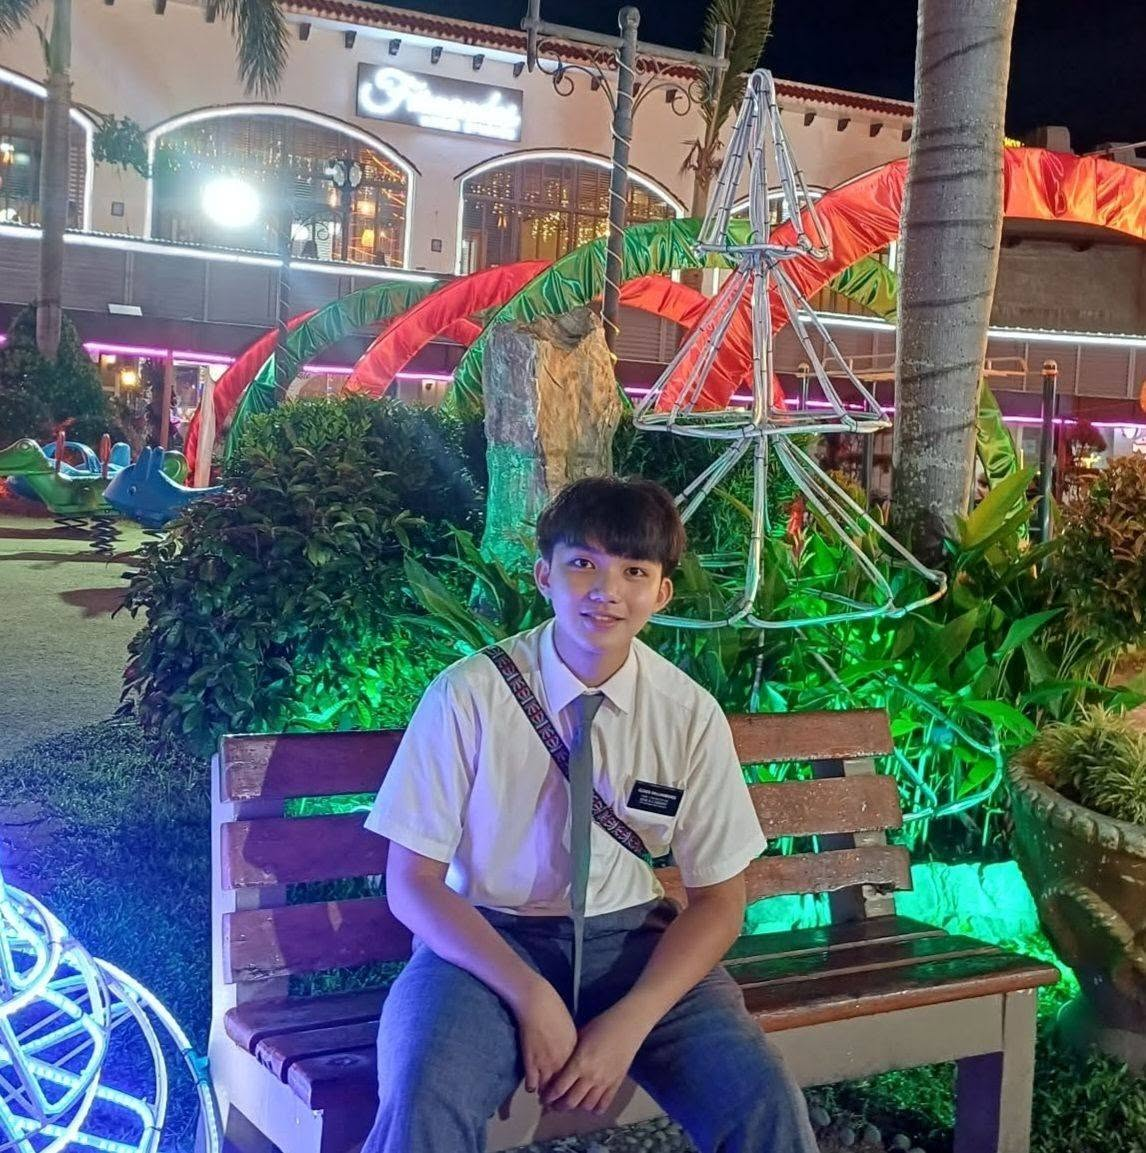
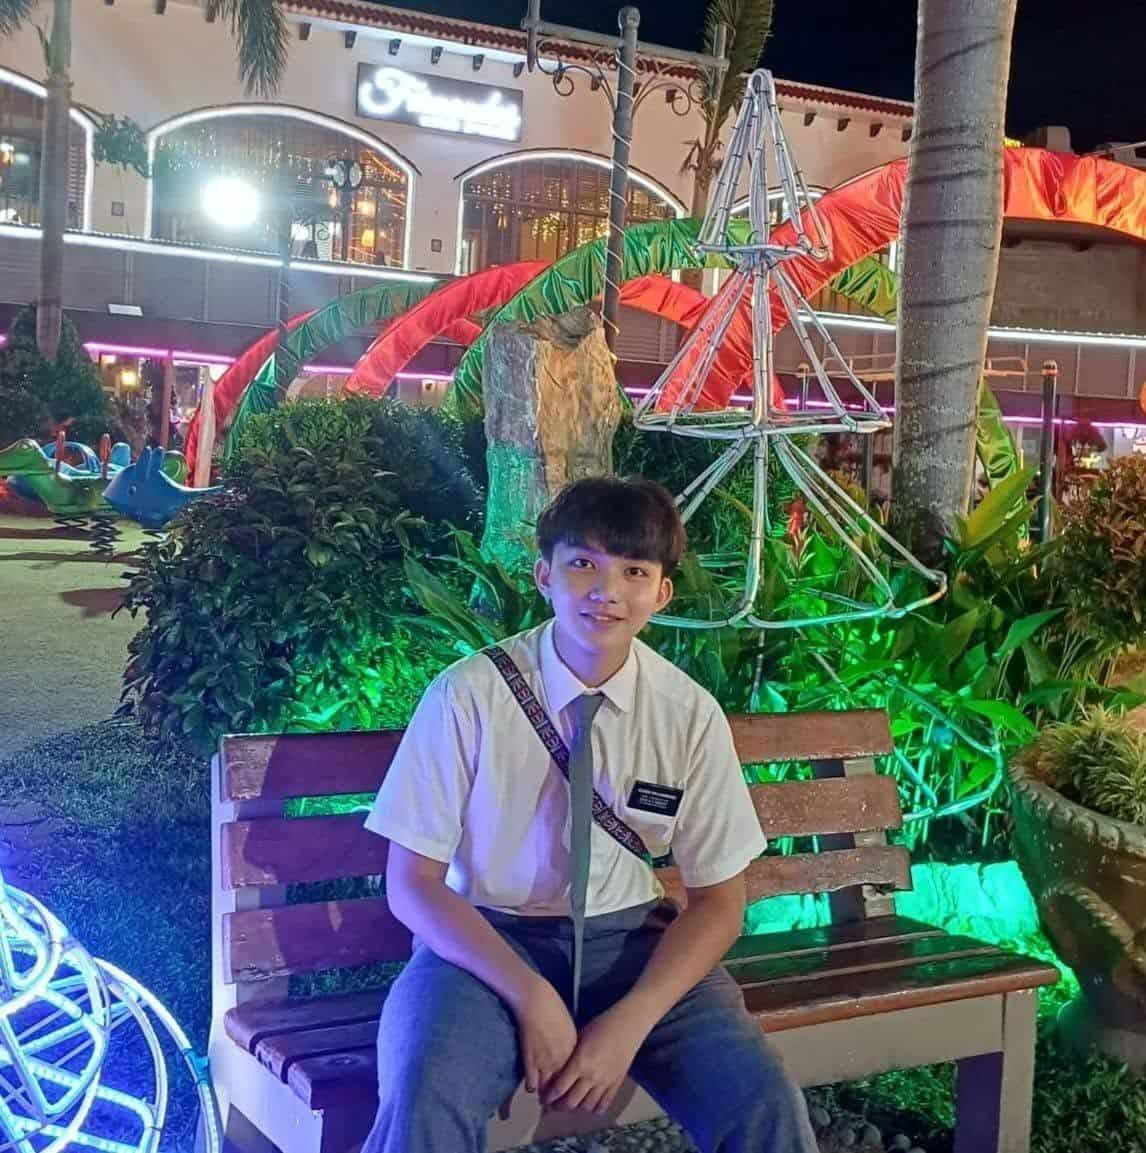
Update contact page header and styles for improved visibility

diff --git a/wwr/contact.html b/wwr/contact.html
@@ -25,7 +25,7 @@
     </header>
     <main>
         <div class="contact-information">
-            <h2>Dry Oar Water Rafting</h2>
+            <h1>Dry Oar Water Rafting</h1>
             <p>123 Main River Street</p>
             <p>Kolob, California</p>
             <p>+1 999 999 9999</p>
@@ -38,7 +38,7 @@
                 <iframe
                   title="Map showing the Dry Oar location"
                   src="https://www.google.com/maps/embed?pb=!1m14!1m12!1m3!1d7723.3850625724535!2d121.57333802504424!3d14.55956720309455!2m3!1f0!2f0!3f0!3m2!1i1024!2i768!4f13.1!5e0!3m2!1sen!2sph!4v1791745377319!5m2!1sen!2sph"
-                  width="600" height="450" style="border:0;" allowfullscreen="" loading="lazy"
+
                   referrerpolicy="strict-origin-when-cross-origin"></iframe>
             </div>
 

diff --git a/wwr/styles/rafting.css b/wwr/styles/rafting.css
@@ -183,6 +183,10 @@ footer {
 }
 
 /* contact page */
+.contact-information h1 {
+    color: var(--accent2-color);
+}
+
 .contact-information {
     text-align: center;
     color: #000000;
